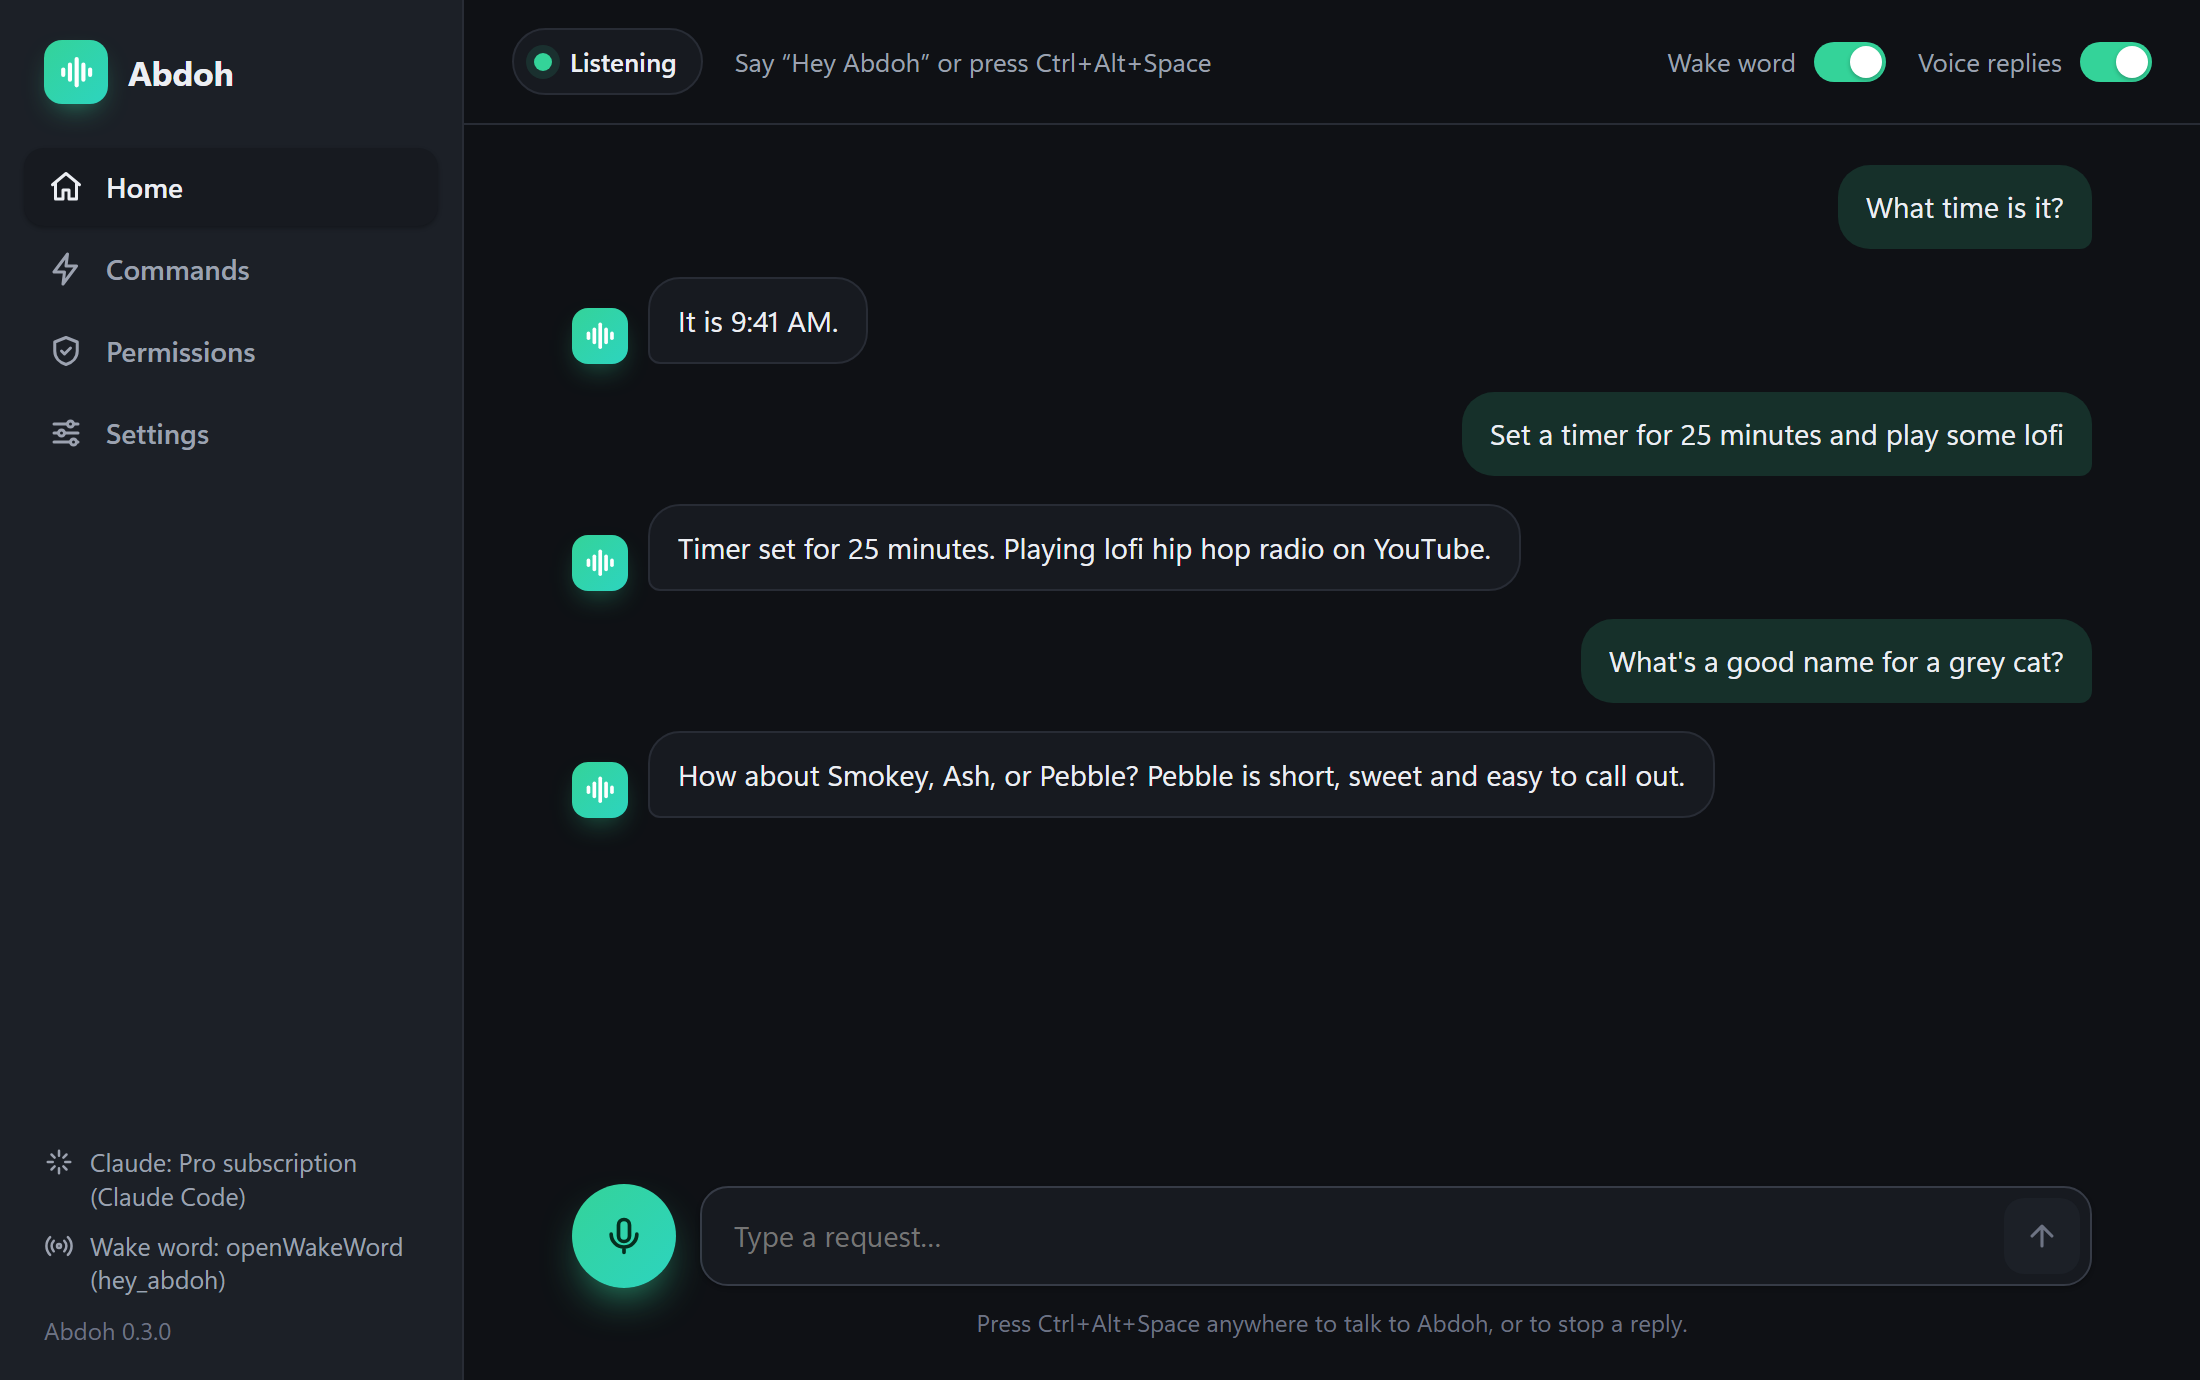
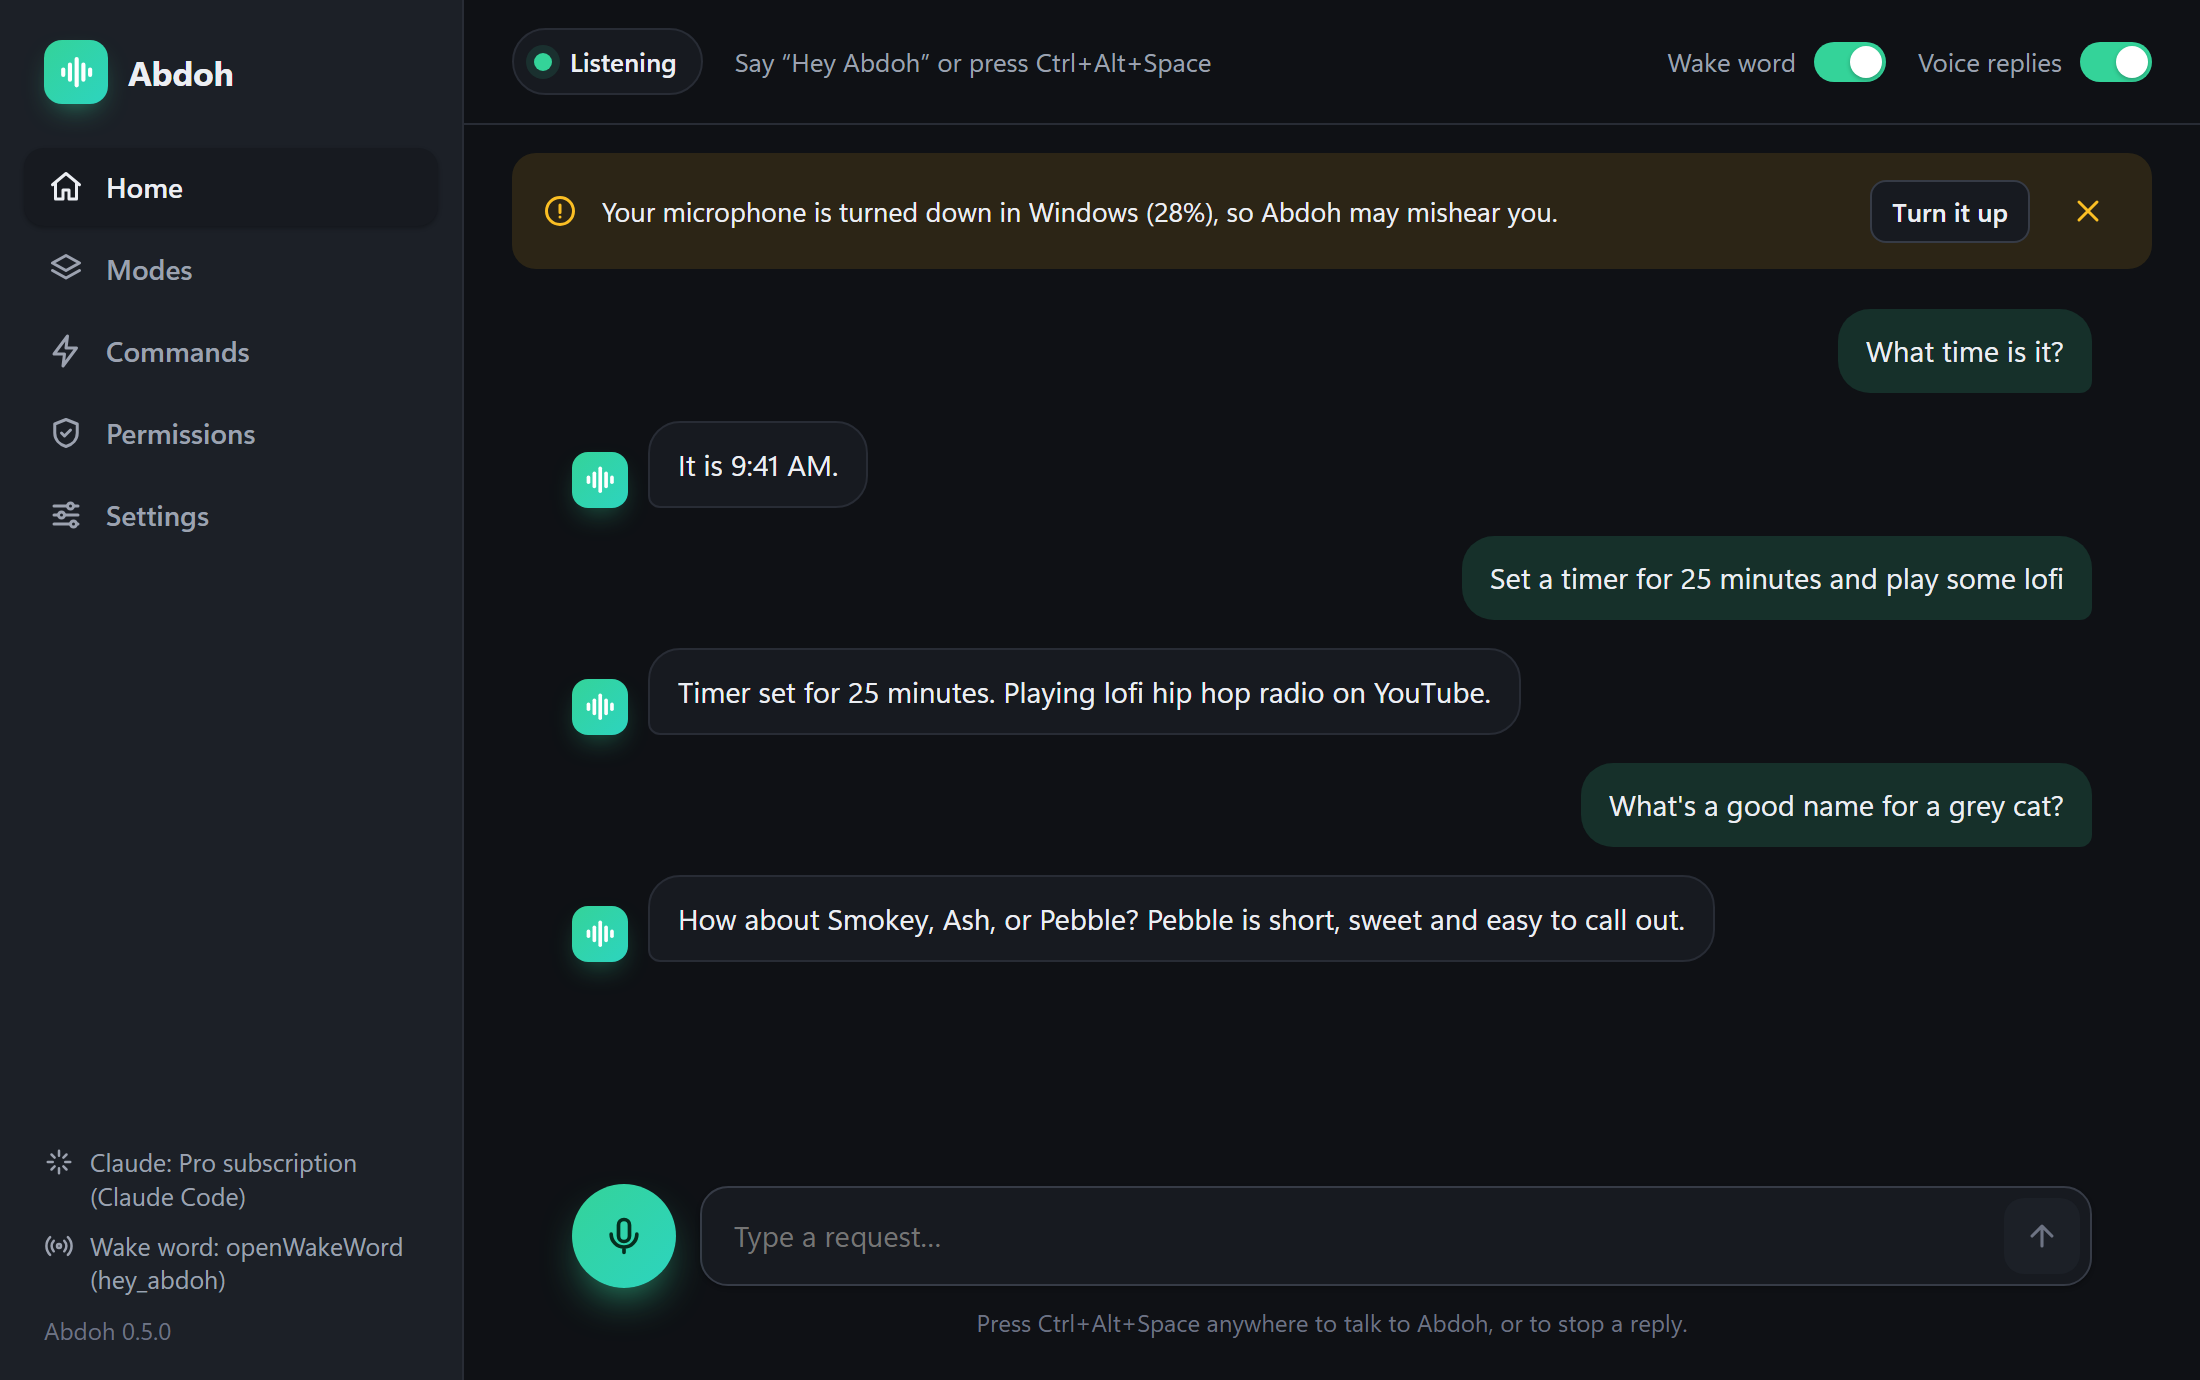
docs: modes, talking over Abdoh and looking at the screen on the download page
New feature cards and a Modes page screenshot in place of the Commands one; screenshots
refreshed for 0.5.0.

diff --git a/docs/index.html b/docs/index.html
@@ -94,7 +94,7 @@ footer .fine{flex-basis:100%;font-size:13px}
     <div>
       <span class="eyebrow">Free for Windows 10 and 11</span>
       <h1>A voice assistant that <em>does things</em> on your PC.</h1>
-      <p class="lede">Say “Hey Abdoh” and just talk. It runs the routines you set up, sets reminders, takes notes, controls your music and volume, and asks Claude about everything else, with your own Claude account.</p>
+      <p class="lede">Say “Hey Abdoh” and just talk. It runs the routines you set up, switches your PC into modes, sets reminders, controls your music, screens and speakers, and asks Claude about everything else, with your own Claude account.</p>
       <a class="dl" id="download" data-repo="/releases/latest/download/Abdoh-Setup.exe" href="https://github.com/MohdEssam77/abdoh_the_assistant/releases/latest/download/Abdoh-Setup.exe">
         <svg viewBox="0 0 24 24" fill="currentColor" aria-hidden="true"><path d="M3 5.5 10.5 4.4v7.1H3zM11.5 4.3 21 3v8.5h-9.5zM3 12.5h7.5v7.1L3 18.5zM11.5 12.5H21V21l-9.5-1.3z"/></svg>
         Download for Windows
@@ -118,11 +118,14 @@ footer .fine{flex-basis:100%;font-size:13px}
     <p class="sub">Abdoh lives in the corner of your screen. Talk to it, or type when you can't.</p>
     <div class="grid">
       <div class="feature"><div class="ic"><svg viewBox="0 0 24 24" fill="none" stroke="currentColor" stroke-width="2" stroke-linecap="round" stroke-linejoin="round"><path d="M13 2 4 14h7l-1 8 9-12h-7l1-8z"/></svg></div><h3>Your own commands</h3><p>“Good morning” opens your news and your playlist. Make commands with a simple form, or start from templates. They run instantly.</p></div>
-      <div class="feature"><div class="ic"><svg viewBox="0 0 24 24" fill="none" stroke="currentColor" stroke-width="2" stroke-linecap="round" stroke-linejoin="round"><path d="M12 3l1.8 4.6L18 9l-4.2 1.4L12 15l-1.8-4.6L6 9l4.2-1.4z"/><path d="M19 15l.8 2 2 .8-2 .8-.8 2-.8-2-2-.8 2-.8z"/></svg></div><h3>Answers from Claude</h3><p>Questions, the latest news, what's on your screen, even sorting your files, with your own Claude account.</p></div>
-      <div class="feature"><div class="ic"><svg viewBox="0 0 24 24" fill="none" stroke="currentColor" stroke-width="2" stroke-linecap="round" stroke-linejoin="round"><rect x="9" y="3" width="6" height="12" rx="3"/><path d="M5 11a7 7 0 0 0 14 0M12 18v3"/></svg></div><h3>A real conversation</h3><p>Say “Hey Abdoh” and keep talking. Follow up without the wake word, interrupt it mid-sentence, and it remembers what you said.</p></div>
+      <div class="feature"><div class="ic"><svg viewBox="0 0 24 24" fill="none" stroke="currentColor" stroke-width="2" stroke-linecap="round" stroke-linejoin="round"><path d="M12 3l1.8 4.6L18 9l-4.2 1.4L12 15l-1.8-4.6L6 9l4.2-1.4z"/><path d="M19 15l.8 2 2 .8-2 .8-.8 2-.8-2-2-.8 2-.8z"/></svg></div><h3>Answers from Claude</h3><p>Questions, the latest news, even sorting your files, with your own Claude account.</p></div>
+      <div class="feature"><div class="ic"><svg viewBox="0 0 24 24" fill="none" stroke="currentColor" stroke-width="2" stroke-linecap="round" stroke-linejoin="round"><rect x="9" y="3" width="6" height="12" rx="3"/><path d="M5 11a7 7 0 0 0 14 0M12 18v3"/></svg></div><h3>A real conversation</h3><p>Say “Hey Abdoh” and keep talking. Follow up without the wake word, and just start talking to stop it mid-sentence. It remembers what you said.</p></div>
       <div class="feature"><div class="ic"><svg viewBox="0 0 24 24" fill="none" stroke="currentColor" stroke-width="2" stroke-linecap="round" stroke-linejoin="round"><circle cx="12" cy="13" r="8"/><path d="M12 9v4l2.5 2M9 2h6"/></svg></div><h3>Instant everyday things</h3><p>Timers, reminders, notes, exact volume, brightness, quick maths, screenshots, dictation, any installed app. In milliseconds, no Claude needed.</p></div>
       <div class="feature"><div class="ic"><svg viewBox="0 0 24 24" fill="none" stroke="currentColor" stroke-width="2" stroke-linecap="round" stroke-linejoin="round"><path d="M12 3 4.5 6v6c0 4.5 3.2 7.7 7.5 9 4.3-1.3 7.5-4.5 7.5-9V6L12 3z"/><path d="m9 12 2 2 4-4"/></svg></div><h3>You decide what it can do</h3><p>Turn the web, your screen, your files and each kind of action on or off, and give Abdoh your own instructions.</p></div>
       <div class="feature"><div class="ic"><svg viewBox="0 0 24 24" fill="none" stroke="currentColor" stroke-width="2" stroke-linecap="round" stroke-linejoin="round"><rect x="4" y="11" width="16" height="10" rx="2"/><path d="M8 11V7a4 4 0 0 1 8 0v4"/></svg></div><h3>Accurate and private</h3><p>Speech recognition that copes with accents runs on your own PC, in English, Arabic and more. Only requests you send to Claude go online.</p></div>
+      <div class="feature"><div class="ic"><svg viewBox="0 0 24 24" fill="none" stroke="currentColor" stroke-width="2" stroke-linecap="round" stroke-linejoin="round"><path d="M12 2 2 7l10 5 10-5-10-5z"/><path d="m2 17 10 5 10-5M2 12l10 5 10-5"/></svg></div><h3>Modes for your PC</h3><p>“Movie mode” turns off the screens you don't need and sets the volume; “work mode” turns them all on and opens your apps. “Back to normal” undoes it all. Modes can switch on by themselves at a time.</p></div>
+      <div class="feature"><div class="ic"><svg viewBox="0 0 24 24" fill="none" stroke="currentColor" stroke-width="2" stroke-linecap="round" stroke-linejoin="round"><rect x="2" y="3" width="20" height="14" rx="2"/><path d="M8 21h8M12 17v4"/></svg></div><h3>It looks when you ask</h3><p>“What does this error mean?” Claude decides when it needs to see, and Abdoh tells you when it looks at the screen you're using.</p></div>
+      <div class="feature"><div class="ic"><svg viewBox="0 0 24 24" fill="none" stroke="currentColor" stroke-width="2" stroke-linecap="round" stroke-linejoin="round"><path d="M12 3a9 9 0 1 0 9 9"/><path d="M12 7v5l3 3"/><path d="M17 3h4v4"/></svg></div><h3>Your whole computer</h3><p>Monitors on and off, speakers or headphones, dark mode, night light, power modes, one app's volume, windows to another screen, a shutdown timer for the film.</p></div>
     </div>
   </div>
 </section>
@@ -137,13 +140,13 @@ footer .fine{flex-basis:100%;font-size:13px}
         <li><b>2</b><div><h3>Check your microphone and voice</h3><p>A live level meter shows that Abdoh hears you. Pick a voice you like.</p></div></li>
         <li><b>3</b><div><h3>Connect your Claude</h3><p>Sign in with your own Claude account, or skip it: your commands work without it.</p></div></li>
       </ol>
-      <div class="say"><span>“Hey Abdoh, good morning”</span><span>“remind me to call mom at 6”</span><span>“set the volume to 40 percent”</span><span>“what's the weather tomorrow?”</span><span>“يا عبدوه”</span></div>
+      <div class="say"><span>“Hey Abdoh, good morning”</span><span>“remind me to call mom at 6”</span><span>“movie mode”</span><span>“switch to headphones”</span><span>“what's the weather tomorrow?”</span><span>“يا عبدوه”</span></div>
     </div>
     <div class="shot">
       <div class="glow"></div>
       <picture>
-        <source srcset="commands-dark.png" media="(prefers-color-scheme: dark)">
-        <img src="commands-light.png" width="2200" height="1380" alt="Abdoh's Commands page with cards like Good morning, Open my mail and Focus time." loading="lazy">
+        <source srcset="modes-dark.png" media="(prefers-color-scheme: dark)">
+        <img src="modes-light.png" width="2200" height="1380" alt="Abdoh's Modes page with Movie, Work and Night modes, and the list of your screens." loading="lazy">
       </picture>
     </div>
   </div>

diff --git a/scripts/take_screenshots.py b/scripts/take_screenshots.py
@@ -12,7 +12,7 @@ from pathlib import Path
 
 ROOT = Path(__file__).resolve().parents[1]
 PAGE = ROOT / "src" / "abdoh" / "ui" / "web" / "index.html"
-SHOTS = {"app": "home", "commands": "commands"}  # docs/<name>-<theme>.png -> the app's page
+SHOTS = {"app": "home", "modes": "modes"}  # docs/<name>-<theme>.png -> the app's page
 EDGE = [
     Path(r"C:\Program Files (x86)\Microsoft\Edge\Application\msedge.exe"),
     Path(r"C:\Program Files\Microsoft\Edge\Application\msedge.exe"),
